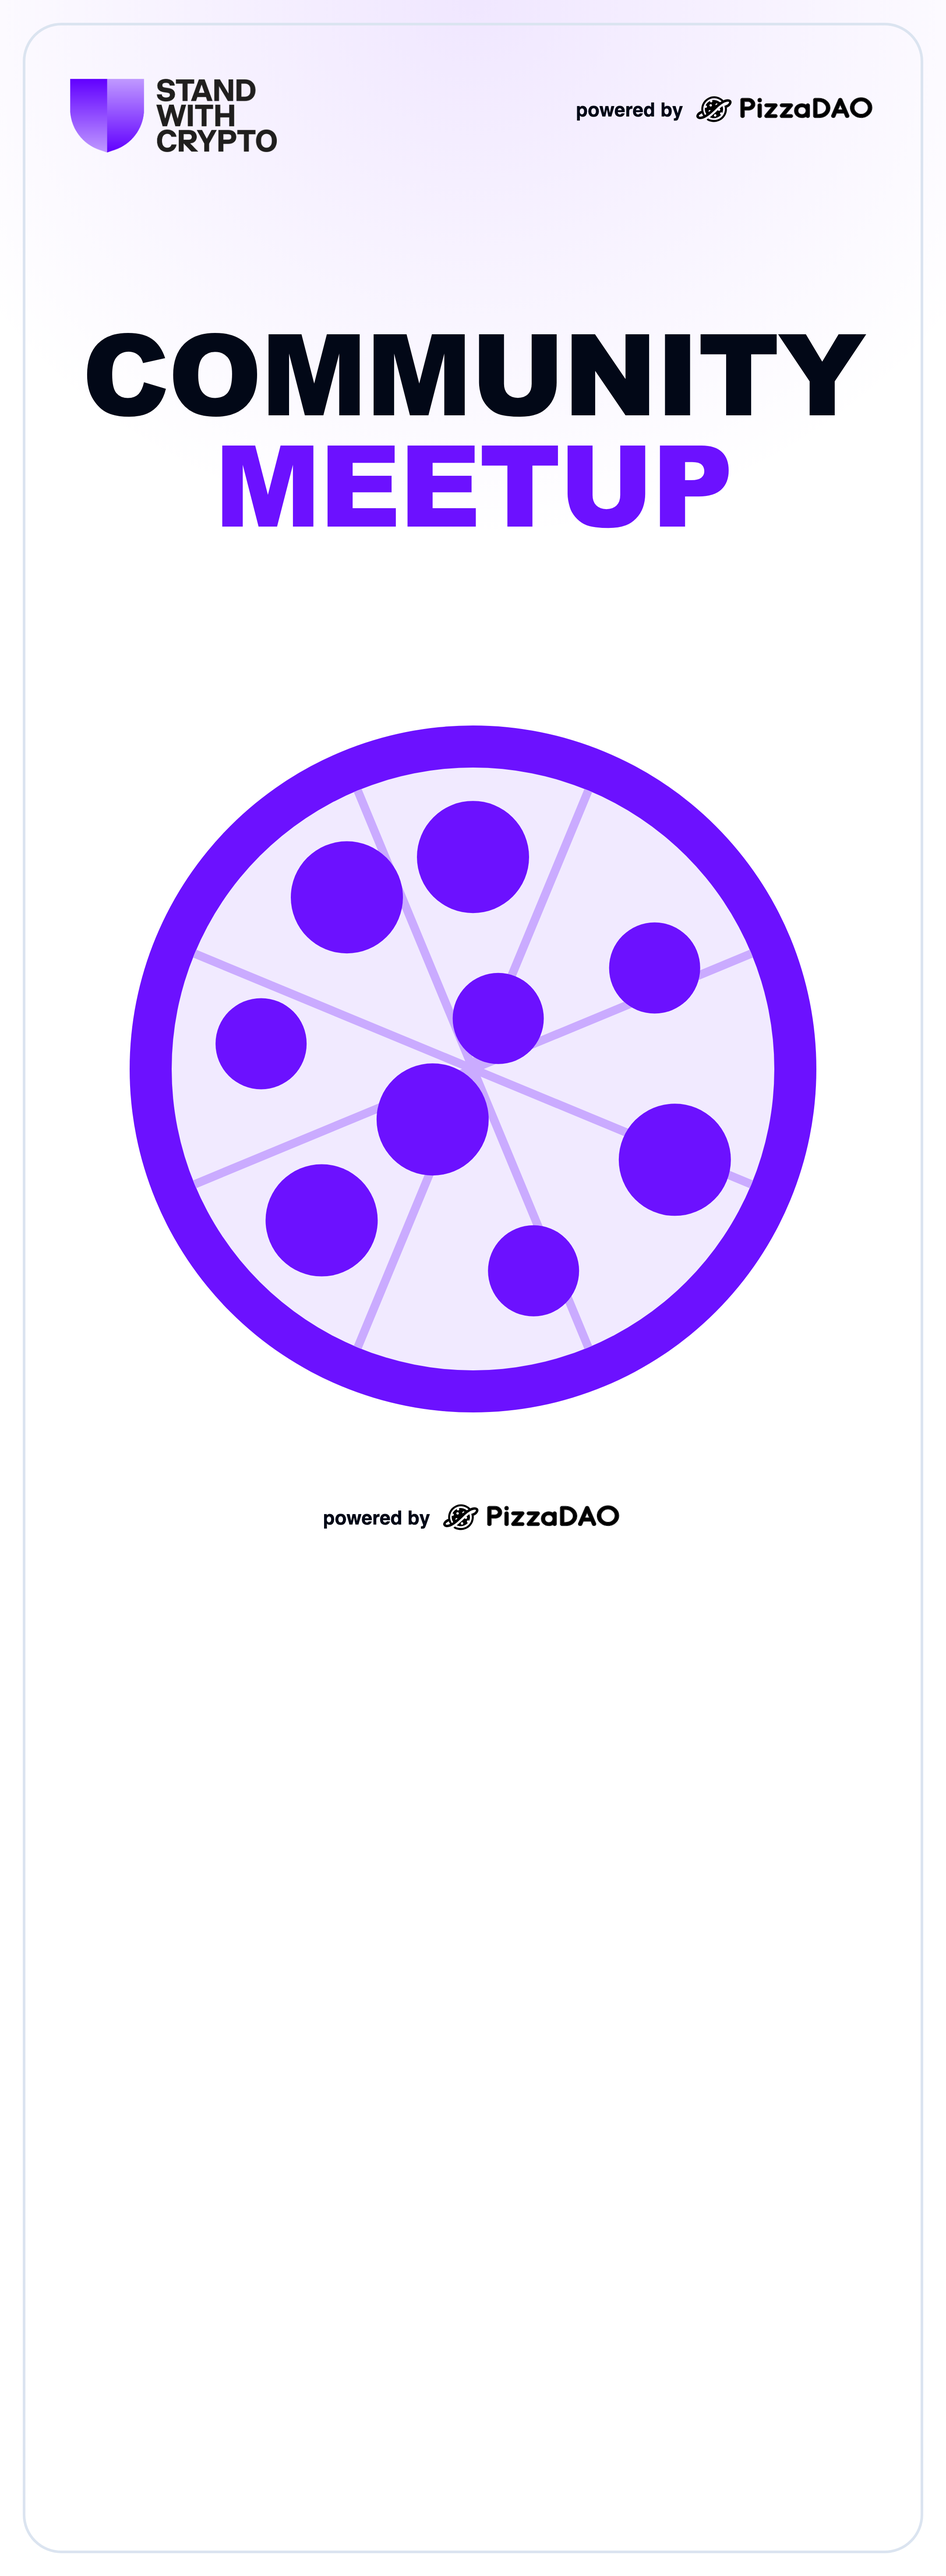
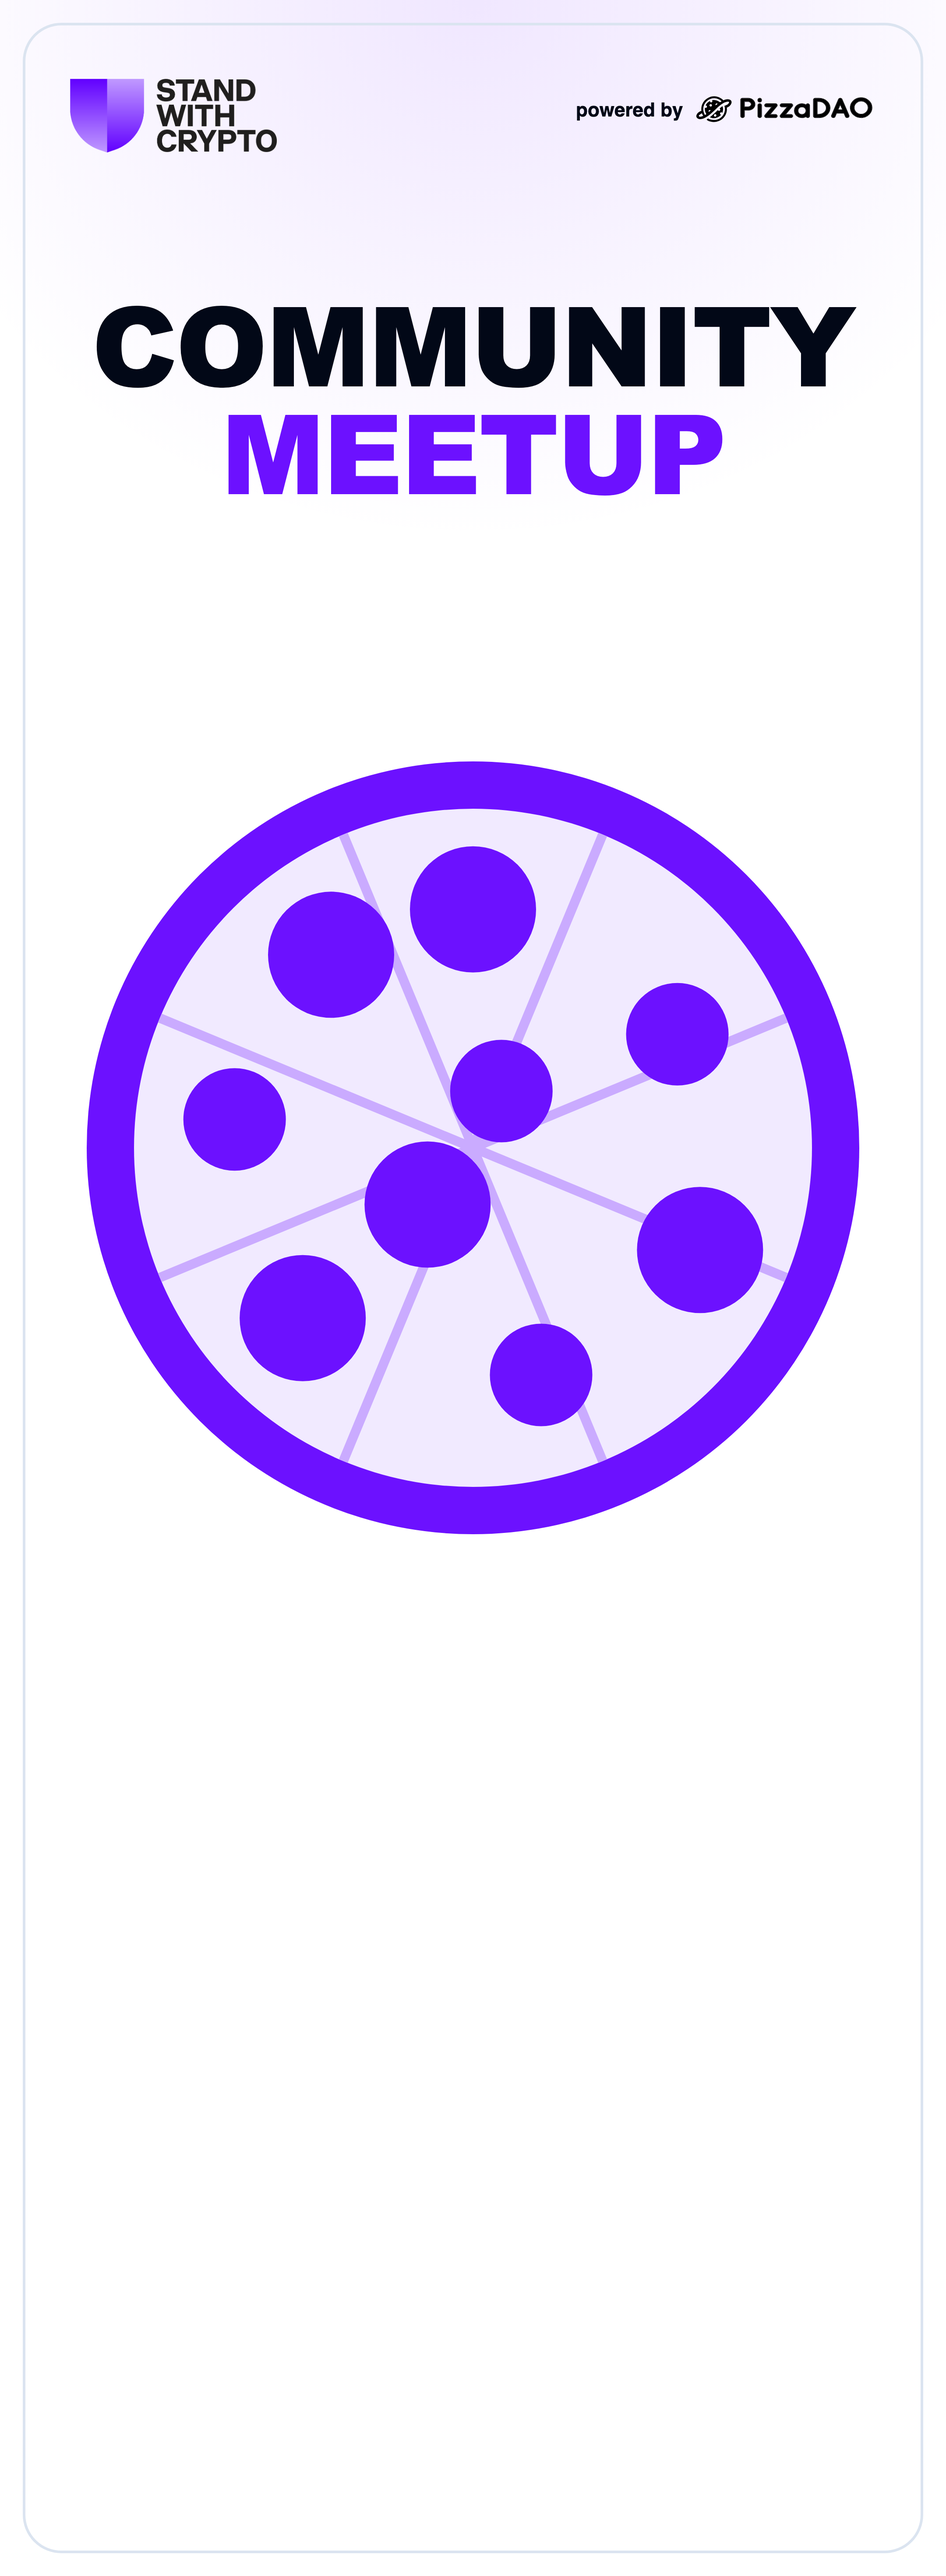
Team1/SWC roll-ups: single powered-by, larger pizza, sponsors near the bottom
Claude-Session: https://claude.ai/code/session_01EZ19a9FmWFV5USMdYC147u

Changed region(s): [[0.0931, 0.2801, 0.9306, 0.6224], [0.0931, 0.0934, 0.8995, 0.2179]]

diff --git a/frontend/src/components/generative/configs/team1RollupConfig.ts b/frontend/src/components/generative/configs/team1RollupConfig.ts
@@ -8,10 +8,13 @@ export const TEAM1_ROLLUP_CONFIG: FormatConfig = {
   templatePath: '/brands/team1/flyer/rollup-template.png',
   fullResUrl: '/brands/team1/flyer/rollup-template.png',
   handleColor: 'rgba(255,255,255,0.85)',
-  // Empty band between the pizza art and the city line (y 2200).
-  qr: { x: 410, y: 1880, size: 260, tileColor: '#FFFFFF', dark: '#000000', caption: 'SCAN TO RSVP', radius: 18 },
+  // Band between the pizza art (ends y~1760) and the city line (y 2380).
+  qr: { x: 410, y: 1960, size: 260, tileColor: '#FFFFFF', dark: '#000000', caption: 'SCAN TO RSVP', radius: 18 },
+  // Content shifted down vs the GPP roll-up so the sponsor row sits near the bottom of the banner.
+  sponsorBox: { ...ROLLUP_CONFIG.sponsorBox, defaultY: 2600, height: 290 },
   textFields: ROLLUP_CONFIG.textFields.map((f) => ({
     ...f,
+    defaultY: f.key === 'city' ? 2380 : f.key === 'time' ? 2490 : 2590,
     color: f.key === 'venue' ? '#D1D5DB' : '#FFFFFF',
     ...(f.key === 'time' ? { dateColor: '#FF4D5A' } : {}),
   })),

diff --git a/frontend/src/components/generative/configs/swcRollupConfig.ts b/frontend/src/components/generative/configs/swcRollupConfig.ts
@@ -8,10 +8,13 @@ export const SWC_ROLLUP_CONFIG: FormatConfig = {
   templatePath: '/brands/swc/flyer/rollup-template.png',
   fullResUrl: '/brands/swc/flyer/rollup-template.png',
   handleColor: 'rgba(2,8,23,0.85)',
-  // Empty band between the pizza art and the city line (y 2200).
-  qr: { x: 410, y: 1880, size: 260, tileColor: '#F1EAFF', dark: '#020817', caption: 'SCAN TO RSVP', radius: 18 },
+  // Band between the pizza art (ends y~1760) and the city line (y 2380).
+  qr: { x: 410, y: 1960, size: 260, tileColor: '#F1EAFF', dark: '#020817', caption: 'SCAN TO RSVP', radius: 18 },
+  // Content shifted down vs the GPP roll-up so the sponsor row sits near the bottom of the banner.
+  sponsorBox: { ...ROLLUP_CONFIG.sponsorBox, defaultY: 2600, height: 290 },
   textFields: ROLLUP_CONFIG.textFields.map((f) => ({
     ...f,
+    defaultY: f.key === 'city' ? 2380 : f.key === 'time' ? 2490 : 2590,
     color: f.key === 'venue' ? '#52607A' : '#020817',
     ...(f.key === 'time' ? { dateColor: '#6C11FF' } : {}),
   })),
